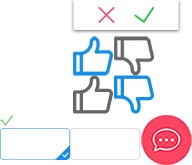
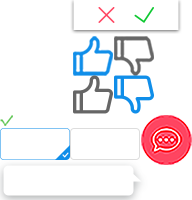
新增用户反馈优化

Changed region(s): [[0.0, 0.0303, 1.0, 1.0]]

diff --git a/static/feedback/feedback.js b/static/feedback/feedback.js
@@ -9,7 +9,7 @@
 	$.feedback = function(options) {
 
     var settings = $.extend({
-			ajaxURL: 				'http://localhost:8082/mcrm/api/groovy/feedback/saveFeedback',
+			ajaxURL: 				'/fspa/mcrm/api/groovynoauth/feedback/saveFeedback',
 			postBrowserInfo: 		false,
 			postHTML:				false,
 			postURL:				false,
@@ -32,8 +32,8 @@
 				// description:	'<div id="feedback-welcome"><div class="feedback-logo">Feedback</div><p>Feedback lets you send us suggestions about our products. We welcome problem reports, feature ideas and general comments.</p><p>Start by writing a brief description:</p><textarea id="feedback-note-tmp"></textarea><p>Next we\'ll let you identify areas of the page related to your description.</p><button id="feedback-welcome-nexst" class="feedback-next-btn feedback-btn-gray">Next</button><div id="feedback-welcome-error">请输入反馈内容</div><div class="feedback-wizard-close"></div></div>',
 				highlighter:	'<div id="feedback-highlighter"><button class="feedback-sethighlight feedback-active"><div class="ico"></div></button><label>点击您想反馈问题的区域</label><div class="feedback-buttons"><button id="feedback-highlighter-back" class="feedback-back-btn feedback-btn-gray">Back</button></div><div class="feedback-wizard-close"></div></div>',
 				overview:		'<div id="feedback-overview"><div id="evaluate"><div class="rate-btn good active"><div class="good-icon"></div><div>好评</div></div><div class="rate-btn bad"><div class="bad-icon"></div><div>差评</div></div></div><div id="feedback-type">反馈类型<button class="active">问题</button><button>建议</button></div><div id="feedback-overview-description"><div id="feedback-overview-description-text"><h3><textarea id="feedback-overview-note"  placeholder="请输入反馈内容"></textarea></h3></div></div><div id="feedback-overview-screenshot"><h3>已截图</h3></div><div class="feedback-buttons"><button id="feedback-submit" class="feedback-submit-btn feedback-btn-blue">提交</button><button id="feedback-overview-back" class="feedback-back-btn feedback-btn-gray">重新截图</button></div><div id="feedback-overview-error">请输入反馈内容</div><div class="feedback-wizard-close"></div></div>',
-				submitSuccess:	'<div id="feedback-submit-success"><div class="feedback-logo">Feedback</div><p>Thank you for your feedback. We value every piece of feedback we receive.</p><p>We cannot respond individually to every one, but we will use your comments as we strive to improve your experience.</p><button class="feedback-close-btn feedback-btn-blue">OK</button><div class="feedback-wizard-close"></div></div>',
-				submitError:	'<div id="feedback-submit-error"><div class="feedback-logo">Feedback</div><p>Sadly an error occured while sending your feedback. Please try again.</p><button class="feedback-close-btn feedback-btn-blue">OK</button><div class="feedback-wizard-close"></div></div>'
+				submitSuccess:	'<div id="feedback-submit-success"><div class="feedback-logo">反馈成功</div><p>感谢您的提交反馈</p><button class="feedback-close-btn feedback-btn-blue">OK</button><div class="feedback-wizard-close"></div></div>',
+				// submitError:	'<div id="feedback-submit-error"><div class="feedback-logo">反馈失败</div><p>反馈失败</p><button class="feedback-close-btn feedback-btn-blue">OK</button><div class="feedback-wizard-close"></div></div>'
 			},
 			onClose: 				function() {},
 			screenshotStroke:		true,
@@ -88,7 +88,7 @@
 				if (!settings.initialBox) {
 					$('#feedback-highlighter-back').remove();
 					// canDraw = false;
-					$('#feedback-canvas').css('cursor', 'crosshair');
+					$('#feedback-canvas').css('cursor', 'default');
 					$('#feedback-helpers').show();
 					$('#feedback-welcome').hide();
 					$('#feedback-highlighter').show();
@@ -190,46 +190,22 @@
 
 				});
 
-				$(document).on('mousemove', function(e) {
-					if (canDraw && drag) {
-						$('#feedback-highlighter').css('cursor', 'default');
-
-						rect.w = (e.pageX - $('#feedback-canvas').offset().left) - rect.startX;
-						rect.h = (e.pageY - $('#feedback-canvas').offset().top) - rect.startY;
-
-						ctx.clearRect(0, 0, $('#feedback-canvas').width(), $('#feedback-canvas').height());
-						ctx.fillStyle = 'rgba(102,102,102,0.5)';
-						ctx.fillRect(0, 0, $('#feedback-canvas').width(), $('#feedback-canvas').height());
-						$('.feedback-helper').each(function() {
-							if ($(this).attr('data-type') == 'highlight')
-								drawlines(ctx, parseInt($(this).css('left'), 10), parseInt($(this).css('top'), 10), $(this).width(), $(this).height());
-						});
-						if (highlight==1) {
-							drawlines(ctx, rect.startX, rect.startY, rect.w, rect.h);
-							ctx.clearRect(rect.startX, rect.startY, rect.w, rect.h);
-						}
-						$('.feedback-helper').each(function() {
-							if ($(this).attr('data-type') == 'highlight')
-								ctx.clearRect(parseInt($(this).css('left'), 10), parseInt($(this).css('top'), 10), $(this).width(), $(this).height());
-						});
-						if (highlight == 0) {
-							ctx.fillStyle = 'rgba(0,0,0,0.5)';
-							ctx.fillRect(rect.startX, rect.startY, rect.w, rect.h);
-						}
-					}
-				});
-
 				if (settings.highlightElement) {
 					var highlighted = [],
 						tmpHighlighted = [],
 						hidx = 0;
 
 					$(document).on('mousemove click', '#feedback-canvas',function(e) {
+						if (e.type == 'click'){
+							$('#feedback-overview').hide();
+							$('#feedback-highlighter').hide();
+							canDraw = true;
+						}
 						if (canDraw) {
 							redraw(ctx);
 							tmpHighlighted = [];
 
-							$('#feedback-canvas').css('cursor', 'crosshair');
+							$('#feedback-canvas').css('cursor', 'default');
 
 							$('* :not(body,script,iframe,div,section,.feedback-btn,#feedback-module *)').each(function(){
 								if ($(this).attr('data-highlighted') === 'true')
@@ -279,19 +255,6 @@
 
 				$(document).on('mouseenter', '.feedback-helper', function() {
 					redraw(ctx);
-				});
-
-				$(document).on('click', '#feedback-welcome-next', function() {
-					if ($('#feedback-note').val().length > 0) {
-						canDraw = true;
-						$('#feedback-canvas').css('cursor', 'crosshair');
-						$('#feedback-helpers').show();
-						$('#feedback-welcome').hide();
-						$('#feedback-highlighter').show();
-					}
-					else {
-						$('#feedback-welcome-error').show();
-					}
 				});
 
 				$(document).on('mouseleave mouseenter', '.feedback-helper', function(e) {
@@ -457,23 +420,54 @@
 						$('#feedback-overview').hide();
 						description = $('#feedback-note').val();
 						post.img = img;
-						if(img == ''){
+						if(post.img == ''){
 							canDraw = false;
 							$('#feedback-canvas').css('cursor', 'default');
 							var dh = $(window).height();
+							$('#feedback-helpers').hide();
+							$('#feedback-highlighter').hide();
 							html2canvas($('body'), {
-								onrendered: function(canvas) {	
-									_canvas = $('<canvas id="feedback-canvas-tmp" width="'+ w +'" height="'+ dh +'"/>').hide().appendTo('body');			
-									img = _canvas.get(0).toDataURL();							
-									post.img = img;	
-									console.log(post.img);							
-								},
+								onrendered: function(canvas) {
+									_canvas = $('<canvas id="feedback-canvas-tmp" width="'+ w +'" height="'+ dh +'"/>').hide().appendTo('body');
+									img = _canvas.get(0).toDataURL();
+									post.img = img;
+									settings.onScreenshotTaken(post.img);
+								}
 							});
 						}
 						post.note = $('#feedback-note').val();
+						/**
+					   * 由?a=1&b=2 ==> {a:1, b:2}
+					   * @param {string} search 一般取自location.search
+					   */
+					  function getQuery(search) {
+					    const query = {};
+					    // 去掉`?`
+					    const searchString = search.slice(1);
+					    if (searchString) {
+					      searchString.split('&').map(
+					      	function (item){
+					      		return item.split('=');
+					      	}
+					      ).forEach(
+					      	function (item){
+					      		return query[item[0]] = item[1];
+					      	}
+					      );
+					    }
+					    return query;
+					  }
+						function  getEmpId() {
+					    // 临时 ID
+					    const tempId = '002332';
+					    const nativeQuery = getQuery(window.location.search);
+					    const empId = window.curUserCode || nativeQuery.empId || tempId;
+					    return empId;
+					  }
+					  var userId = getEmpId();
             var data = {
             	"appId":"FSP",
-							"userId":"002332",
+							"userId": userId,
             	"description":description,
 							"goodRate":rateValue,
 							"issueType":typeValue, 
@@ -492,7 +486,8 @@
 								$('#feedback-module').append(settings.tpl.submitSuccess);
 							},
 							error: function(){
-								$('#feedback-module').append(settings.tpl.submitError);
+								close();
+								// $('#feedback-module').append(settings.tpl.submitError);
 							}
 						});
 					}

diff --git a/static/feedback/feedback.css b/static/feedback/feedback.css
@@ -23,7 +23,7 @@
 }
 .feedback-logo {
   background: url(icons.png) -0px -0px no-repeat;
-  width: 34px;
+  width: 100%;
   margin-bottom: 16px;
   font-size: 16px;
   font-weight: normal;
@@ -113,8 +113,7 @@
 #feedback-highlighter {
   display: none;
   top: 20%;
-  left: 50%;
-  margin-left: -110px;
+  left: 30%;
   position: fixed;
   width: 220px;
   height: 220px;
@@ -133,13 +132,14 @@
   -moz-box-sizing: border-box;
   -webkit-box-sizing: border-box;
   -webkit-transform: translateZ();
+  cursor: pointer;
 }
 #feedback-highlighter .feedback-wizard-close{
   display: none;
 }
 #feedback-overview {
-  right: 10%;
-  bottom: 10%;
+  right: 5%;
+  bottom: 7%;
   position: fixed;
   width: 450px!important;
   height: 358.5px;

diff --git a/static/feedback/screenPrint.js b/static/feedback/screenPrint.js
@@ -1,6 +1,6 @@
 document.addEventListener('DOMContentLoaded',  function () {
   $.feedback({
-      ajaxURL: 'http://localhost:8082/mcrm/api/groovy/feedback/saveFeedback',
+      ajaxURL: '/fspa/mcrm/api/groovynoauth/feedback/saveFeedback',
       html2canvasURL: 'html2canvas.js',
       onClose: function() { window.location.reload(); },
   });
